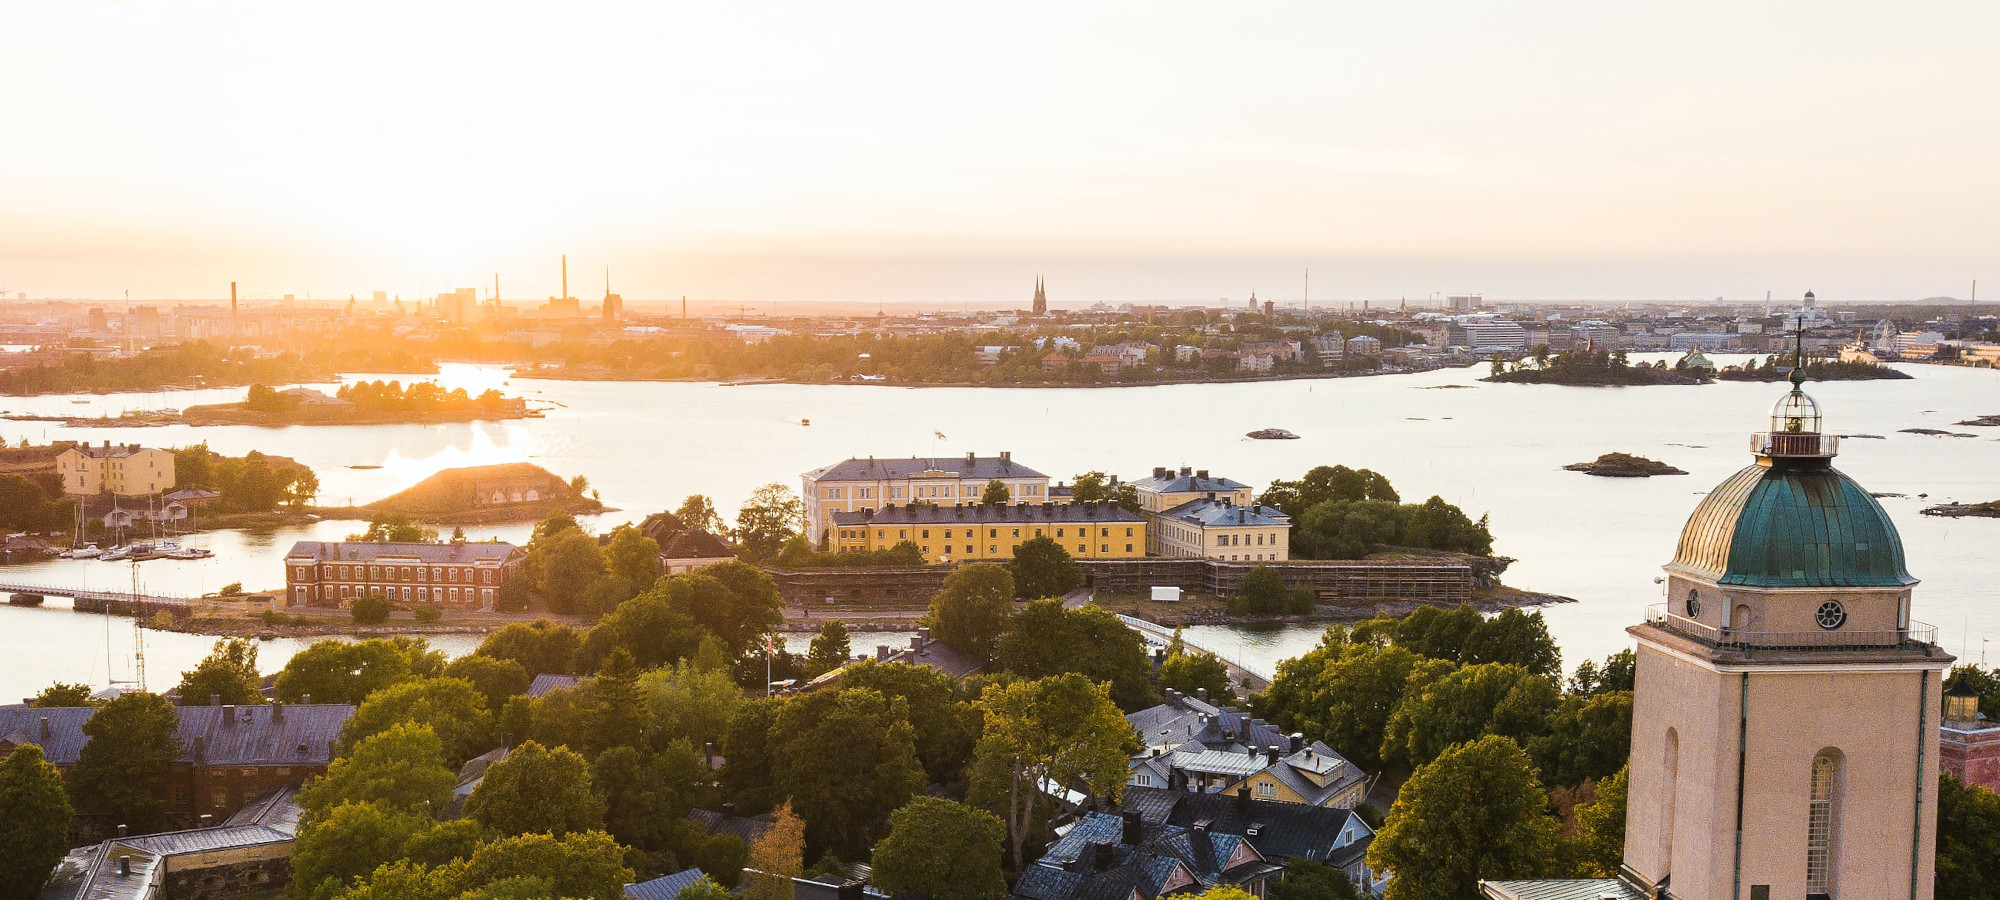
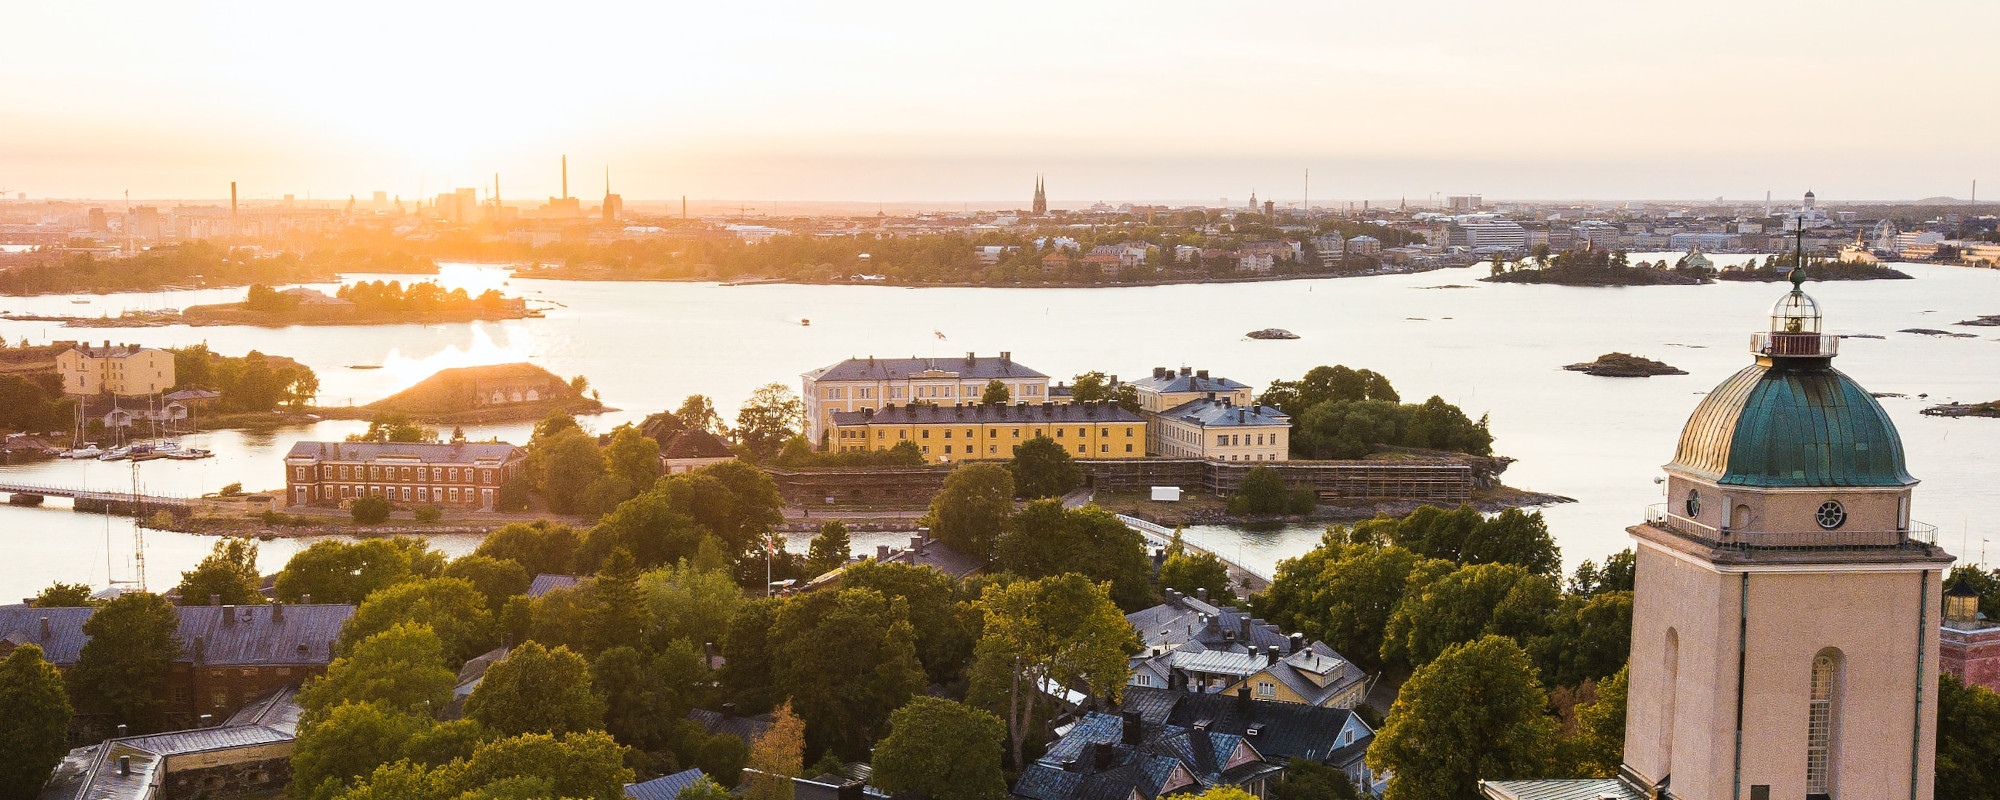
korjattu taustakuvan skaalaus

diff --git a/Nettisivut/css/style.css b/Nettisivut/css/style.css
@@ -278,7 +278,7 @@ body{
 }
 
 
-/*sivun sisällön säädöt*/
+/*index sivun sisällön säädöt*/
 
  .btn1 {
     background-color: #04BFBF;
@@ -315,9 +315,6 @@ h3 {
     padding: auto;
 }
 
-/* img {
-    padding: 0.8em;
-} */
 
 .repair4 {
     border-radius: 5em;
@@ -341,7 +338,6 @@ h3 {
 .esittely {
     font-family: 'Poppins', sans-serif;
     padding-top: 3em;
-    /* background-color: #aeffff;  */
     background-color: #F2F2F2; 
     margin: 0px;
 }
@@ -397,6 +393,7 @@ h2{
 }
 
 /*kartta*/
+
 .sijaintikartalla{
     display: flex;
     justify-content: center;
@@ -419,7 +416,6 @@ h2{
     color: white;
     text-align: center;
     width: auto;
-    /* font-family: 'Trebuchet MS', 'Lucida Sans Unicode', 'Lucida Grande', 'Lucida Sans', Arial, sans-serif; */
     font-family: 'Poppins', sans-serif;
     }
 
@@ -452,7 +448,9 @@ h2{
     }
 
 #taustakuva1 {
-    background: url(../img/helsinki13.jpg)
+    background: url(../img/helsinki13.jpg);
+    background-size: cover;
+    width: 100%;
 }
 
 .helsinki13 {
@@ -532,21 +530,13 @@ h2{
 
 #taustakuva2 {
     background: url(../img/helsinki141.jpg);
-    /* background-repeat: repeat-x;  */
-    background-position: left;
+    background-size: cover;
     width: 100%;
 }
 
-/* #taustakuva2::after {   -------------ei toimi
-    content: "";
-    position: absolute;
-    top: 0;
-    right: 0; 
-    bottom: 0;
-    width: auto;
-    height: auto;
-    background: url(../img/helsinki141.jpg);
-    background-repeat: repeat-x;
-    background-position: right;
-  } */
 
+#taustakuva3 {
+    background: url(../img/helsinki141.jpg);
+    background-size: cover;
+    width: 100%;
+}

diff --git a/Nettisivut/kirjaudu_asukas.php b/Nettisivut/kirjaudu_asukas.php
@@ -21,7 +21,7 @@
 <div class="row vali  mx-0"></div>
 <div class="row vali  mx-0"></div>
 
-<div  class="bg-cover text-white d-flex align-items-center" id="taustakuva2">
+<div  class="bg-cover text-white d-flex align-items-center" id="taustakuva3">
   <div class="container3">
     <div class="row justify-content-center">
       <div class="text-center lomake_tausta2">
